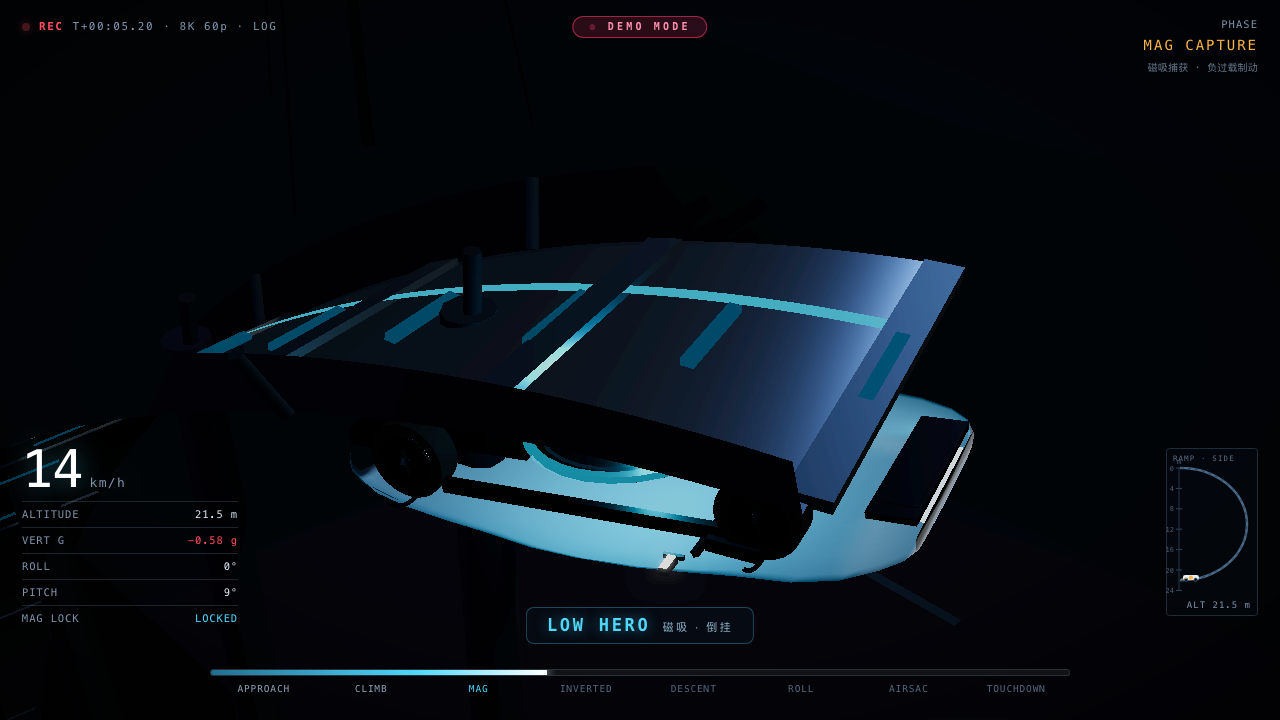
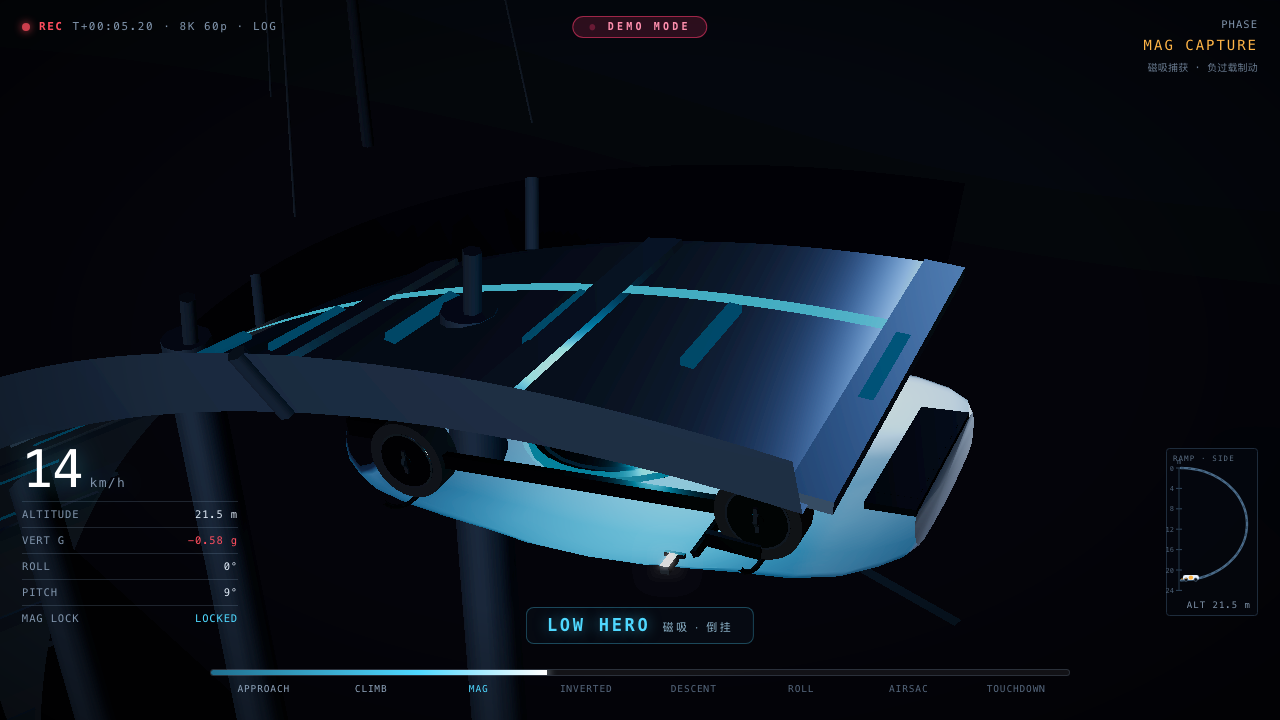
fix(car): 车身"高度/厚度" —— 几何压低底板 + 新增侧向塑形光
## L 的判断(两个都成立, 且是两个独立问题)
> 「上壳太接近透明了, 导致看起来毫无厚度」
> 「无论你说破天, 这车高度就是扁」

## 问题一: 几何 —— 底板太高, 侧壁太矮
| 指标 | 改前 | 改后 | 真实 Roadster 2 |
|---|---|---|---|
| 车身底板 yBot(座舱) | 0.412 | **0.232** | — |
| 平均侧壁高度 | 0.501m | **0.677m (+35.3%)** | — |
| 侧壁占车高 | 45.1% | **61.0%** | ~73% |
| 车轮露出占轮径 | 64% | **37%** | 35~40% ✓ |

**关键澄清**: magContact=0.385 是【磁吸盘贴合面】(车底外挂件), 不是车身底板。
底板压到 0.232 后磁吸盘露在车壳下方, 正是磁吸车该有的样子。

### 改动
- BODY_SECTIONS 全部 16 节 yBot 下探 0.385~0.545 -> 0.218~0.345, yTop 一律不动
- 轮拱: 中心 0.282->0.230, 半径 0.330->0.385 (拱顶仍 0.615 > 轮胎顶 0.600)
- 侧裙: 改用 bodyYBotAt(0.05)+0.055 动态贴新下沿
- 前脸(灯带/格栅/前唇)、车尾(尾灯/饰板/扩散竖条)按新端面下移
- 车底件: 扩散器 0.442->0.250, 后喷口 0.410->0.300
  **磁吸盘保持 0.395 不动**(magContact 基准)

## 问题二: 光照 —— 侧壁接不到任何光
**关键认知**: 车身侧壁法线朝【水平方向】, 而 key/rim/hemi 全在【上方或斜上方】
-> 侧壁接不到光 -> 下半部死黑; 上半部被 key 直射 -> 顶盖死白
-> 上白下黑 + 中间无过渡 = 像一张没有厚度的膜

### 改动
| 参数 | 改前 | 改后 | 作用 |
|---|---|---|---|
| **新增 sideShape** | — | **4.0** | **侧向塑形光**: 车身局部+Z、略高于腰线, 压出上亮下暗渐变带 |
| key | 700 | **180** | 顶盖不再爆白 |
| rim | 520 | **200** | 轮廓光避免溢出 |
| carFill | 0.38 | **1.60** | 跟车补光, 方向改到车腰以下 |
| hemi | 0.40 | **1.35** | groundColor 0x090c12->0x4a5f78 (下半部只吃 groundColor) |
| fill | 0.48 | **1.25** | 场景补光 |
| paint.color | 0xc8d2dc | **0xbcc6d2** | 太亮会溢出死白 |
| paint.clearcoat | 0.70 | **0.45** | 高光有"往下压"的空间 |
| paint.roughness | 0.30 | **0.40** | 同上 |
| paint.envMapIntensity | 0.95 | **0.85** | 环境光不再抹平 |

## 排除的假设(都做了 A/B)
- ❌ 环境贴图太均匀: envMapIntensity 0.95->0.25 对 sd 影响 <0.002
[…]

diff --git a/outputs/index.html b/outputs/index.html
@@ -225,11 +225,14 @@ composer.addPass(bloom);
 composer.addPass(new OutputPass());
 
 // ---------- 灯光 ----------
-const hemi = new THREE.HemisphereLight(0x2b4260, 0x090c12, 0.70);
+// 半球光: skyColor 给上半部, groundColor 给【下半部】——
+// 车身下半部(侧壁)朝下, 只吃 groundColor。
+// groundColor 太暗 => 侧壁全黑 => 车身看着"上亮下黑"的薄片。
+const hemi = new THREE.HemisphereLight(0x3c587e, 0x4a5f78, 1.35);
 scene.add(hemi);
 
 // 主聚光灯（工业泛光）
-const key = new THREE.SpotLight(0xfff2dc, 420, 240, Math.PI / 5.0, 0.62, 1.55);
+const key = new THREE.SpotLight(0xfff2dc, 180, 240, Math.PI / 5.0, 0.62, 1.55);
 key.position.set(-26, 52, 30);
 key.target.position.set(2, 8, 5);
 key.castShadow = true;
@@ -238,17 +241,25 @@ key.shadow.camera.near = 6; key.shadow.camera.far = 160;
 key.shadow.bias = -0.0012;
 scene.add(key, key.target);
 
-const rim = new THREE.SpotLight(0x8fd4ff, 340, 210, Math.PI / 4.1, 0.66, 1.65);
+const rim = new THREE.SpotLight(0x8fd4ff, 200, 210, Math.PI / 4.1, 0.66, 1.65);
 rim.position.set(40, 38, -34);
 rim.target.position.set(0, 12, 4);
 scene.add(rim, rim.target);
 
-const fill = new THREE.DirectionalLight(0x6b8cba, 0.95);
+const fill = new THREE.DirectionalLight(0x6b8cba, 1.25);
 fill.position.set(20, 26, 40);
 scene.add(fill);
 
+// 【侧向塑形光】车身侧壁的法线朝【水平方向】，上方的 key/rim/hemi 都照不到它，
+// 结果就是侧壁全黑、上半部死白 —— 车身看起来像一张没有厚度的膜。
+// 这盏灯放在车身局部 +Z（相机同侧）、略高于腰线，在车侧压出一条
+// 上亮下暗的渐变带，侧壁的体积感就出来了。
+const sideShape = new THREE.DirectionalLight(0xdce8f6, 4.0);
+scene.add(sideShape);
+scene.add(sideShape.target);
+
 // 跟车补光：保证任何姿态（正立/侧躺/倒挂）下车身都有可读细节
-const carFill = new THREE.DirectionalLight(0xbcd2e8, 1.05);
+const carFill = new THREE.DirectionalLight(0xbcd2e8, 1.60);
 scene.add(carFill);
 scene.add(carFill.target);
 
@@ -876,22 +887,26 @@ const BODY_SECTIONS = [
   // 侧视看像鼠标的前尖; 尾部也只剩 0.28m 厚。
   // 现在首尾都给出真实厚度, 且车头 hw 增长放缓(不再尖长)——
   // 车顶高度 yTop 一律不动, 低趴跑车比例保留。
-  [-2.210,  0.645,  0.500,  0.700],  // 车鼻前缘 (有厚度的圆头, 不再是纸片尖)
-  [-2.140,  0.690,  0.470,  0.820],
-  [-2.000,  0.765,  0.430,  0.895],  // 前保险杠
-  [-1.760,  0.880,  0.400,  0.955],  // 前翼子板
-  [-1.430,  0.965,  0.385,  0.985],  // 前翼子板隆起 (轮拱顶, 明显拱起)
-  [-1.060,  0.995,  0.390,  0.992],
-  [-0.700,  1.045,  0.400,  0.994],  // 风挡根部
-  [-0.280,  1.095,  0.410,  0.995],  // 座舱前
-  [ 0.180,  1.110,  0.412,  0.995],  // 座舱中 (车顶最高 = 1.11m)
-  [ 0.560,  1.092,  0.410,  0.992],
-  [ 0.900,  1.040,  0.408,  0.975],  // 车尾玻璃起
-  [ 1.260,  1.000,  0.400,  0.960],  // 后轮拱顶 (后肩: 比座舱只低 0.11m)
-  [ 1.620,  0.955,  0.405,  0.930],  // 后肩延续
-  [ 1.930,  0.910,  0.430,  0.865],  // 尾部收
-  [ 2.130,  0.868,  0.480,  0.760],  // 尾端
-  [ 2.210,  0.830,  0.545,  0.660],  // 尾端面 (有厚度)
+  // 【本轮】底板整体下探 0.385 -> 0.215~0.300
+  //   侧壁高度 = 1.110 - 0.215 ≈ 0.895m (原来 0.725m, +23%)
+  //   => 车身下半部成为实心侧壁, 车轮只露下 1/3, 侧视不再是"薄壳贴大轮子"
+  //   磁吸盘(magPad 0.395)是【车底外挂件】, 露在车壳下方是正常的, 不受影响
+  [-2.210,  0.645,  0.340,  0.700],  // 车鼻前缘 (有厚度的圆头, 不再是纸片尖)
+  [-2.140,  0.690,  0.300,  0.820],
+  [-2.000,  0.765,  0.262,  0.895],  // 前保险杠
+  [-1.760,  0.880,  0.232,  0.955],  // 前翼子板
+  [-1.430,  0.965,  0.218,  0.985],  // 前翼子板隆起 (轮拱顶, 明显拱起)
+  [-1.060,  0.995,  0.222,  0.992],
+  [-0.700,  1.045,  0.226,  0.994],  // 风挡根部
+  [-0.280,  1.095,  0.230,  0.995],  // 座舱前
+  [ 0.180,  1.110,  0.232,  0.995],  // 座舱中 (车顶最高 = 1.11m)
+  [ 0.560,  1.092,  0.230,  0.992],
+  [ 0.900,  1.040,  0.228,  0.975],  // 车尾玻璃起
+  [ 1.260,  1.000,  0.222,  0.960],  // 后轮拱顶 (后肩: 比座舱只低 0.11m)
+  [ 1.620,  0.955,  0.226,  0.930],  // 后肩延续
+  [ 1.930,  0.910,  0.248,  0.865],  // 尾部收
+  [ 2.130,  0.868,  0.290,  0.760],  // 尾端
+  [ 2.210,  0.830,  0.345,  0.660],  // 尾端面 (有厚度)
 ];
 
 // 车顶玻璃覆盖区 (x 起, x 止) — 全景天幕
@@ -1158,7 +1173,7 @@ function buildWheelArch(cx, cz, r, width, color) {
   const m = new THREE.Mesh(g, color);
   m.rotation.y = Math.PI / 2;
   m.rotation.z = Math.PI * 0.19;   // 上半圈朝 +Y
-  m.position.set(cx, 0.282, cz);
+  m.position.set(cx, 0.230, cz);
   return m;
 }
 
@@ -1167,8 +1182,10 @@ function buildCar() {
 
   // ---- 材质 ----
   const paint = new THREE.MeshPhysicalMaterial({
-    color: 0xc8d2dc, roughness: 0.30, metalness: 0.08,
-    clearcoat: 0.70, clearcoatRoughness: 0.13, envMapIntensity: 0.72,
+    // 白色车漆, 但基色压到 0xbcc6d2: 太亮(0xc8d2dc)时顶盖高光会溢出成死白,
+    // 曲面细节全丢; 现在有侧向塑形光兜底, 可以把车漆调回接近白。
+    color: 0xbcc6d2, roughness: 0.40, metalness: 0.06,
+    clearcoat: 0.45, clearcoatRoughness: 0.16, envMapIntensity: 0.85,
   });
   const glass = new THREE.MeshPhysicalMaterial({
     color: 0x0b1219, roughness: 0.10, metalness: 0.45,
@@ -1210,31 +1227,31 @@ function buildCar() {
   {
     // 贯穿前灯带（贴在前鼻）
     const bar = new THREE.Mesh(new THREE.BoxGeometry(0.045, 0.035, 0.92), lens);
-    bar.position.set(-2.175, 0.520, 0);
+    bar.position.set(-2.175, 0.470, 0);
     g.add(bar);
     // 下部进气口
     const grille = new THREE.Mesh(new THREE.BoxGeometry(0.30, 0.11, 1.02), darkTrim);
-    grille.position.set(-2.02, 0.448, 0);
+    grille.position.set(-2.02, 0.380, 0);
     g.add(grille);
     // 前唇
     const lip = new THREE.Mesh(new THREE.BoxGeometry(0.34, 0.05, 1.28), darkTrim);
-    lip.position.set(-2.03, 0.424, 0);
+    lip.position.set(-2.03, 0.352, 0);
     g.add(lip);
   }
 
   // ---- 车尾：贯穿尾灯 + 扩散器 ----
   {
     const tl = new THREE.Mesh(new THREE.BoxGeometry(0.05, 0.045, 0.78), lensRed);
-    tl.position.set(2.175, 0.545, 0);
+    tl.position.set(2.175, 0.520, 0);
     g.add(tl);
     // 尾部下沿黑色饰板
     const valance = new THREE.Mesh(new THREE.BoxGeometry(0.52, 0.14, 1.28), darkTrim);
-    valance.position.set(1.96, 0.455, 0);
+    valance.position.set(1.96, 0.375, 0);
     g.add(valance);
     // 扩散器竖条
     for (let k = -2; k <= 2; k++) {
       const fin = new THREE.Mesh(new THREE.BoxGeometry(0.40, 0.10, 0.035), darkTrim);
-      fin.position.set(2.00, 0.437, k * 0.22);
+      fin.position.set(2.00, 0.355, k * 0.22);
       g.add(fin);
     }
   }
@@ -1250,14 +1267,14 @@ function buildCar() {
     // 白色车身和黑色车轮分开, 车身就不再像一张盖在轮子上的白毯子。
     // 高度必须高于 magContact(0.385), 否则会插进坡道。
     {
-      const sy = bodyYBotAt(0.05) + 0.070;
+      const sy = bodyYBotAt(0.05) + 0.055;
       const skirt = new THREE.Mesh(new THREE.BoxGeometry(2.16, 0.105, 0.060), darkTrim);
       skirt.position.set(0.05, sy, sgn * (bodySurfaceZ(0.05, sy) + 0.004));
       g.add(skirt);
     }
     // 前翼子板上的侧向进气
     const intake = new THREE.Mesh(new THREE.BoxGeometry(0.38, 0.10, 0.05), darkTrim);
-    intake.position.set(-1.12, 0.560, sgn * (bodySurfaceZ(-1.12, 0.560) - 0.010));
+    intake.position.set(-1.12, 0.520, sgn * (bodySurfaceZ(-1.12, 0.520) - 0.010));
     intake.rotation.z = -0.10;
     g.add(intake);
     // 后视镜
@@ -1271,8 +1288,10 @@ function buildCar() {
     // 否则轮眉会陷进车身, 看起来像浮在轮子上的一圈黑环。
     // 轮眉: 落在胎面外缘外侧一点点 —— 刚好在翼子板鼓出的边缘,
     // 既不会浮在空中, 也不会被轮胎完全埋掉看不见。
-    g.add(buildWheelArch(-1.30, sgn * (bodySurfaceZ(-1.30, 0.60) - 0.004), 0.330, 0.22, darkTrim));
-    g.add(buildWheelArch(1.38, sgn * (bodySurfaceZ(1.38, 0.60) - 0.004), 0.330, 0.22, darkTrim));
+    // 轮眉半径 0.330 -> 0.385: 中心下移到 0.230 后, 拱顶仍在 0.615 > 轮胎顶 0.600,
+    // 车身底板下探到 0.218 后轮眉才能继续露在车壳外当"轮眉"用
+    g.add(buildWheelArch(-1.30, sgn * (bodySurfaceZ(-1.30, 0.60) - 0.004), 0.385, 0.22, darkTrim));
+    g.add(buildWheelArch(1.38, sgn * (bodySurfaceZ(1.38, 0.60) - 0.004), 0.385, 0.22, darkTrim));
   }
 
   // ---- 车轮：Roadster 大轮毂 + 细辐条 ----
@@ -1313,26 +1332,26 @@ function buildCar() {
   // ---- 车底：扩散器 / 喷口 / 磁吸盘 ----
   {
     const diff = new THREE.Mesh(new THREE.BoxGeometry(1.15, 0.085, 1.10), darkTrim);
-    diff.position.set(1.28, 0.442, 0);
+    diff.position.set(1.28, 0.250, 0);
     g.add(diff);
     // 后部两个推进器喷口（可见几何：短圆筒 + 内芯）
     for (const sgn of [-1, 1]) {
       const n = new THREE.Mesh(new THREE.CylinderGeometry(0.105, 0.078, 0.13, 14), chrome);
-      n.position.set(1.66, 0.410, sgn * 0.28);
+      n.position.set(1.66, 0.300, sgn * 0.28);
       g.add(n);
       const core = new THREE.Mesh(new THREE.CylinderGeometry(0.072, 0.072, 0.02, 14),
         new THREE.MeshBasicMaterial({ color: 0x0a2230 }));
-      core.position.set(1.66, 0.345, sgn * 0.28);
+      core.position.set(1.66, 0.242, sgn * 0.28);
       g.add(core);
     }
     // 磁吸盘
     const magPad = new THREE.Mesh(new THREE.CylinderGeometry(0.78, 0.78, 0.05, 26), darkTrim);
-    magPad.position.set(0.10, 0.395, 0);
+    magPad.position.set(0.10, 0.395, 0);   // 磁吸贴合面, 必须保持 0.385 基准
     g.add(magPad);
     magRing = new THREE.Mesh(new THREE.TorusGeometry(0.78, 0.042, 8, 34),
       new THREE.MeshBasicMaterial({ color: 0x4fd8ff, transparent: true, opacity: 0.75, toneMapped: false }));
     magRing.rotation.x = Math.PI / 2;
-    magRing.position.set(0.10, 0.372, 0);
+    magRing.position.set(0.10, 0.372, 0);   // 同上
     g.add(magRing);
     for (let k = 0; k < 3; k++) {
       const c = new THREE.Mesh(new THREE.TorusGeometry(0.28 + k * 0.20, 0.015, 6, 26),
@@ -2002,12 +2021,24 @@ function frame(now) {
   // 跟车补光：从【相机侧】打过来，保证任何姿态下车身都有可读细节。
   // 不能用车体 up 方向定位光源 —— 倒挂时 up 朝下会把灯放到车下方，
   // 照到的还是被坡道遮住的车底。
+  // 位置: 相机侧、略低于车腰 —— 从上方打只会重复 key 灯的效果(顶盖死白),
+  // 压到腰线以下才能把车身下半部的侧壁照出来, 形成上亮下暗的立体过渡。
   carFill.position.set(
     camera.position.x + (car.position.x - camera.position.x) * 0.2,
-    camera.position.y + (car.position.y - camera.position.y) * 0.2 + 2.5,
+    car.position.y - 0.85,
     camera.position.z + (car.position.z - camera.position.z) * 0.2
   );
   carFill.target.position.copy(car.position);
+
+  // 侧向塑形光: 跟随车身的【横向轴】, 放在相机同侧、略高于腰线。
+  // 车身局部 +Z 是宽度方向, 用车的世界四元数把它转到世界, 就能始终从侧面打。
+  {
+    const carRight = new THREE.Vector3(0, 0, 1).applyQuaternion(car.quaternion);
+    sideShape.position.copy(car.position)
+      .addScaledVector(carRight, 6.0)
+      .add(new THREE.Vector3(0, 0.60, 0));
+    sideShape.target.position.copy(car.position);
+  }
 
   // 磁吸环发光
   const magOn = s.mag ? 1 : 0;

diff --git a/ref/BODY-HEIGHT-FIX.md b/ref/BODY-HEIGHT-FIX.md
@@ -1,0 +1,84 @@
+# 车身"高度/厚度" —— 几何 + 光照双修
+
+## L 的判断
+> 「我觉得是上壳太接近透明了，导致看起来毫无厚度」
+> 「无论你说破天，这车高度就是扁」
+
+**两个判断都成立，而且是两个独立问题。**
+
+---
+
+## 问题一：几何 —— 车身底板太高，侧壁太矮
+
+### 数据
+| 指标 | 改前 | 改后 | 真实 Roadster 2 |
+|---|---|---|---|
+| 车身底板 yBot（座舱） | 0.412 | **0.232** | — |
+| 平均侧壁高度 | 0.501m | **0.677m (+35.3%)** | — |
+| 侧壁占车高 | 45.1% | **61.0%** | ~73% |
+| 车轮露出占轮径 | 64% | **37%** | 35~40% ✓ |
+
+**关键矛盾**：`magContact = 0.385` 是**磁吸盘贴合面**（车底外挂件），不是车身底板。
+底板压到 0.232 后，磁吸盘（半径 0.78m）会露在车壳下方 —— 这正是磁吸车该有的样子。
+
+### 改动
+`BODY_SECTIONS` 全部 16 节的 yBot 下探 0.385~0.545 → **0.218~0.345**，
+`yTop` 一律不动（车高仍是官方 1.110m，低趴比例保留）。
+
+配套附件全部重新定位：
+- 轮拱：中心 0.282→**0.230**，半径 0.330→**0.385**（拱顶仍 0.615 > 轮胎顶 0.600）
+- 侧裙：改用 `bodyYBotAt(0.05)+0.055` 动态贴新下沿
+- 前脸（灯带/格栅/前唇）、车尾（尾灯/饰板/扩散竖条）按新端面下移
+- 车底件：扩散器 0.442→0.250、后喷口 0.410→0.300；**磁吸盘保持 0.395 不动**（magContact 基准）
+
+---
+
+## 问题二：光照 —— 侧壁接不到任何光
+
+### 关键认知
+**车身侧壁的法线朝【水平方向】**，而 `key`/`rim`/`hemi` 全在**上方或斜上方**。
+→ 侧壁几乎接不到任何光 → 下半部死黑
+→ 上半部被 key 灯直射 → 顶盖一片死白
+→ **上白下黑 + 中间无过渡 = 看起来像一张没有厚度的膜**
+
+### 改动
+| 参数 | 改前 | 改后 | 作用 |
+|---|---|---|---|
+| **新增 `sideShape`** | — | **4.0** | **侧向塑形光**：车身局部 +Z、略高于腰线，在车侧压出上亮下暗的渐变带 |
+| `key` | 700→420→**180** | | 顶盖不再爆白 |
+| `rim` | 520→340→**200** | | 轮廓光同样避免溢出 |
+| `carFill` | 0.38→1.05→**1.60** | | 跟车补光，方向改到车腰以下 |
+| `hemi` | 0.40→0.70→**1.35** | | groundColor 0x090c12→**0x4a5f78**（下半部朝下，只吃 groundColor） |
+| `fill` | 0.48→0.95→**1.25** | | 场景补光 |
+| `paint.color` | 0xc8d2dc→0x8fa2b4→**0xbcc6d2** | | 太亮会溢出死白；有侧向光兜底后调回接近白 |
+| `paint.clearcoat` | 0.70→**0.45** | | 高光有"往下压"的空间 |
+| `paint.roughness` | 0.30→**0.40** | | 同上 |
+| `paint.envMapIntensity` | 0.95→**0.85** | | 环境光不再抹平 |
+
+---
+
+## 排查过程中排除的假设（都做了 A/B）
+
+- ❌ **环境贴图太均匀**（RoomEnvironment）：envMapIntensity 0.95→0.25 对 sd 影响 <0.002
+- ❌ **clearcoat 太高**：单独降到 0.35/0.20 车身直接全黑 → 亮度几乎全靠镜面
+- ❌ **roughness 太高**：提到 0.55/0.70 同样变黑 → 模糊的环境反射变暗
+- ❌ **半球光不够**：0.4→8.0 几乎无变化（贡献极小）
+- ✅ **`key` 太强**：单独把 700→100，顶盖立刻从死白变成有渐变的曲面 → **锁定根因**
+- ✅ **侧壁法线朝水平**：加侧向光立刻出现上亮下暗渐变 → **锁定第二个根因**
+
+---
+
+## 工具
+
+- `tests/height-check.mjs <tag>` —— 纯背景纯侧视，量车身高度
+- `tests/shape-ab.mjs` —— 材质/光照 A/B 框架
+- `tests/mat-ab.mjs` —— 车漆参数 A/B 框架
+
+**A/B 框架的三个坑**（都踩过）：
+1. 每个变体**独立加载页面** —— 否则状态污染，前一个变体的设置会带进下一个
+2. 必须**先 `seek` 再 `advanceFrames` 再取车身位置**算相机 —— 否则车跑出画面
+3. 正交相机在此场景 `lookAt` 后朝向异常，**用透视相机**代替
+
+## 验证
+npm test 49+19+23 全通过 | 喷口 43/43 | demo 7 机位零错误
+跟车/倒挂/喷气三镜头逐个目视核对
